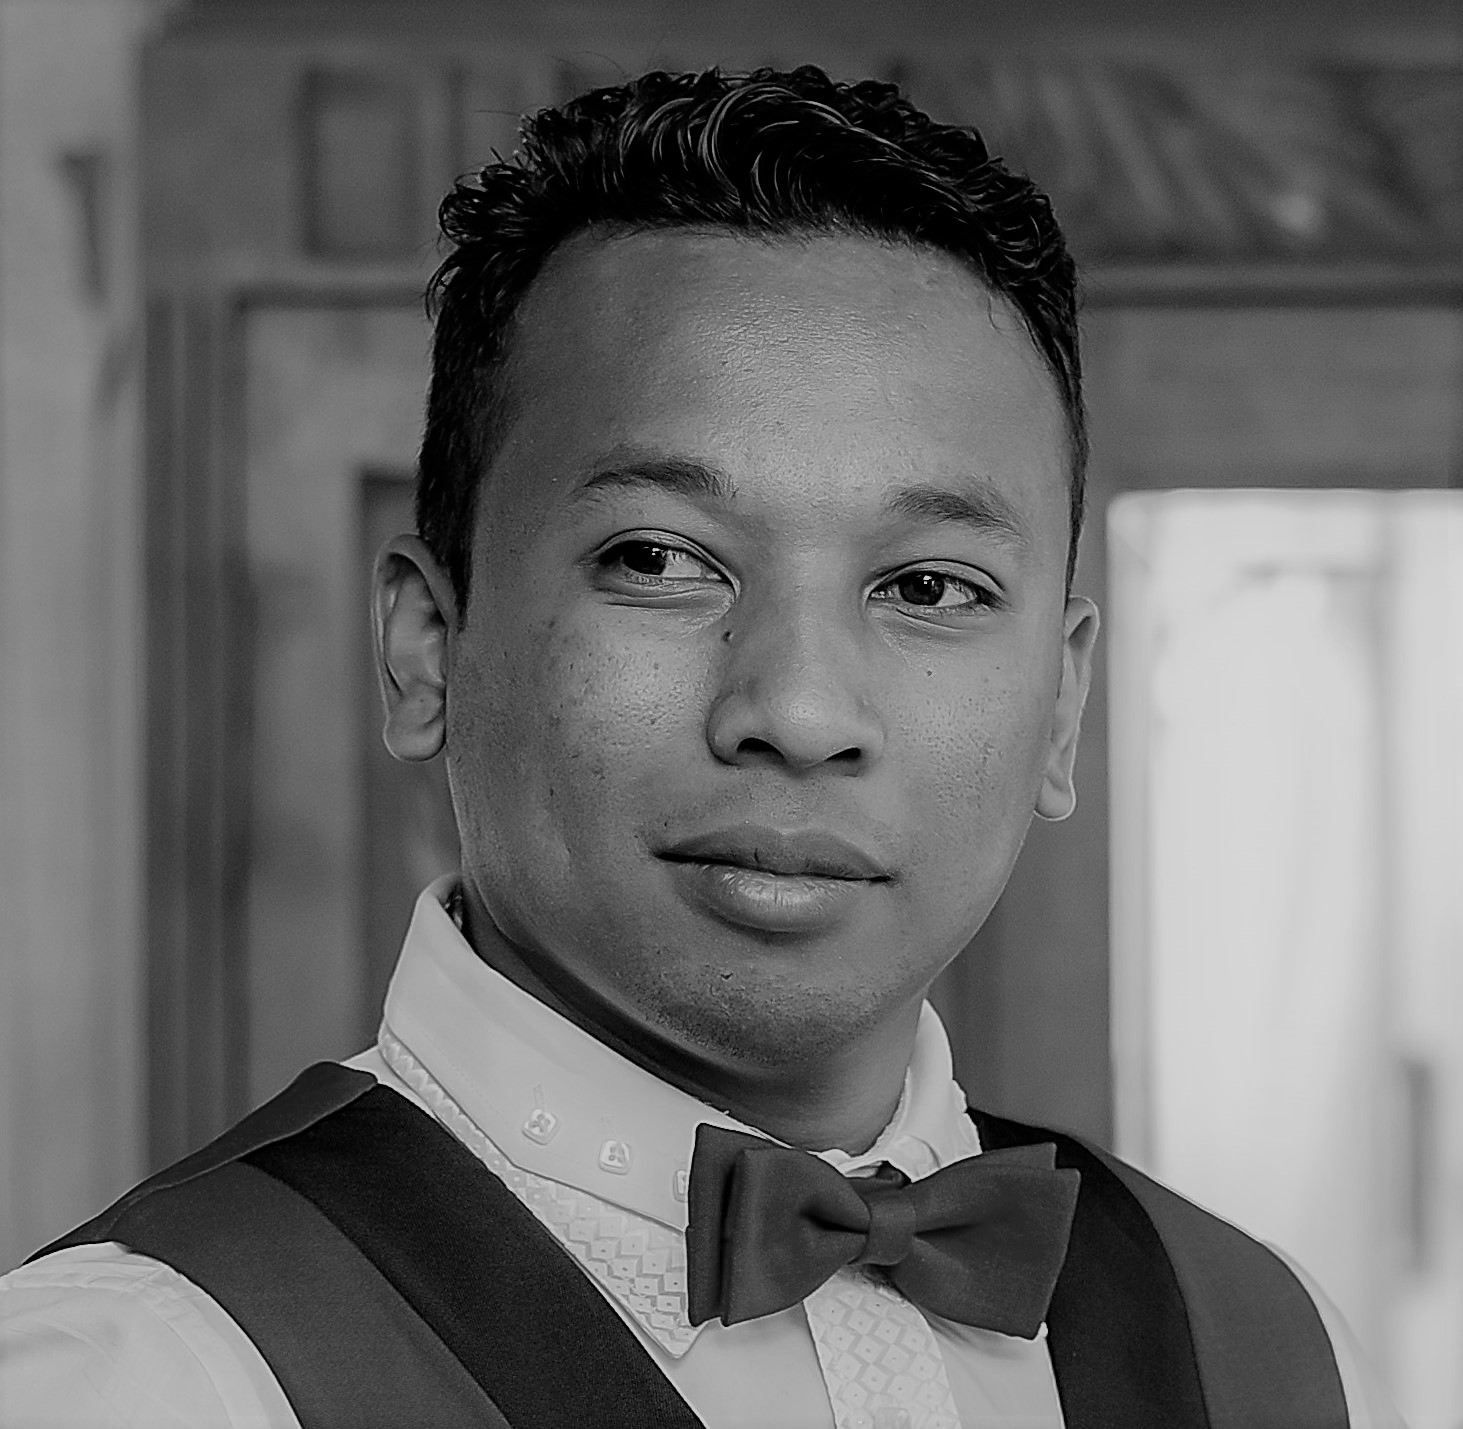
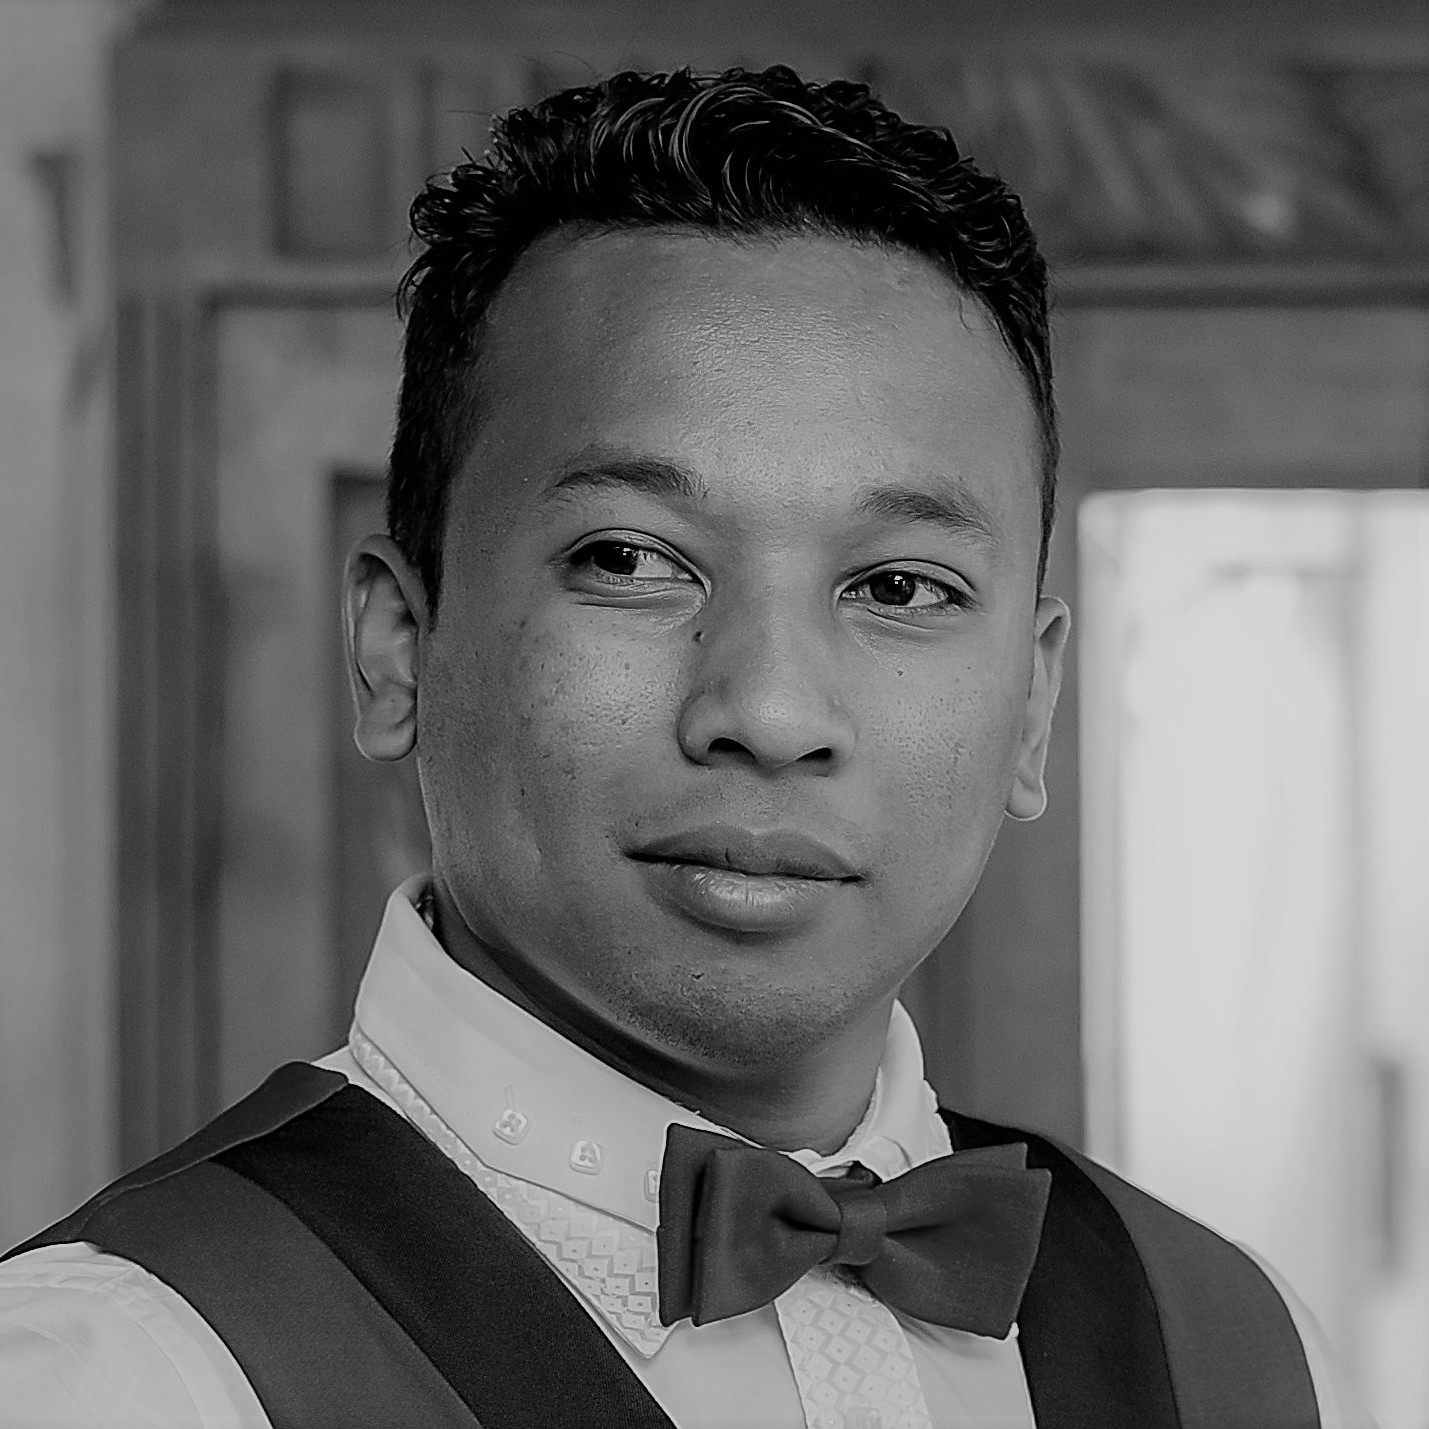
final commit

diff --git a/index.html b/index.html
@@ -26,7 +26,7 @@
             <div class="profile__data">
                 <div class="profile__border">
                     <div class="profile__perfil">
-                        <img src="assets/img/pdp.jpg" alt="profile picture">
+                        <img src="assets/img/me.jpg" alt="profile picture">
                     </div>
                 </div>
                 <h2 class="profile__name">Riana Santatra</h2>
@@ -80,7 +80,7 @@
 
             <div class="filters__sections">
                 <!--=============== PROJECTS ===============-->
-                <div class="projects__content grid" data-content id="projects">
+                <div class="projects__content grid filters__active" data-content id="projects">
                     <article class="projects__card">
                         <img src="assets/img/project1.jpg" alt="project 1" class="projects__img">
                         <div class="projects__modal">
@@ -233,8 +233,8 @@
                                 <div class="skills_data">
                                     <i class="bi bi-check-circle"></i>
                                     <div>
-                                        <div class="skills__name">MS-SQL Server</div>
-                                        <span class="skills__levels">Basic</span>
+                                        <div class="skills__name">Git</div>
+                                        <span class="skills__levels">Intermediate</span>
                                     </div>
                                 </div>
                                 <div class="skills_data">

diff --git a/assets/css/styles.css b/assets/css/styles.css
@@ -12,9 +12,9 @@
       Teal: hsl(174, 63%, 62%)
   */
 
-  --hue: 207;
-  --sat: 90%;
-  --lig: 61%;
+  --hue: 250;
+  --sat: 66%;
+  --lig: 50%;
   --first-color: hsl(var(--hue), var(--sat), var(--lig));
   --first-color-alt: hsl(var(--hue), var(--sat), 57%); /* -4% */
   --title-color: hsl(var(--hue), 12%, 15%);
@@ -142,8 +142,8 @@ body.dark-theme {
   text-align: center;
 }
 .profile__perfil {
-  width: 100px;
-  height: 100px;
+  width: 200px;
+  height: 200px;
   border-radius: 100%;
   overflow: hidden;
   display: flex;
@@ -154,11 +154,11 @@ body.dark-theme {
   width: 100%;
 }
 .profile__border {
-  border: 3.5px solid var(--first-color);
+  border: 4px solid var(--first-color);
   justify-self: center;
-  width: 115px;
-  height: 115px;
-  border-radius: 50%;
+  width: 220px;
+  height: 220px;
+  border-radius: 100%;
   display: grid;
   place-items: center;
   margin-bottom: 0.75rem;
@@ -395,7 +395,7 @@ body.dark-theme {
     row-gap: 1rem;
   }
   .skills__box {
-    column-gap: 1rem;
+    column-gap: 2rem;
   }
 }
 /* For medium devices */

diff --git a/assets/js/main.js b/assets/js/main.js
@@ -57,7 +57,9 @@ const sr = ScrollReveal({
 });
 sr.reveal(".profile__border");
 sr.reveal(".profile__name", { delay: 500 });
-sr.reveal(".profile__border");
-sr.reveal(".profile__border");
-sr.reveal(".profile__border");
-sr.reveal(".profile__border");
+sr.reveal(".profile__profession", { delay: 600 });
+sr.reveal(".profile__social", { delay: 700 });
+sr.reveal(".profile__info-group", { interval: 100, delay: 700 });
+sr.reveal(".profile__buttons", { delay: 800 });
+sr.reveal(".filters__content", { delay: 900 });
+sr.reveal(".filters", { delay: 1000 });
